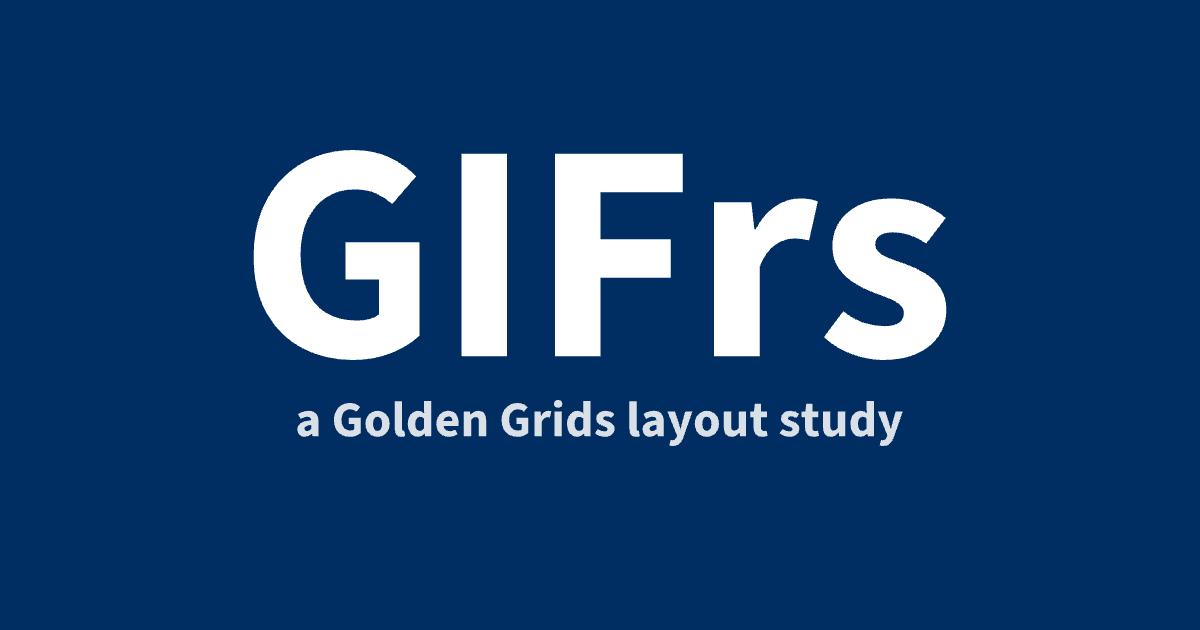
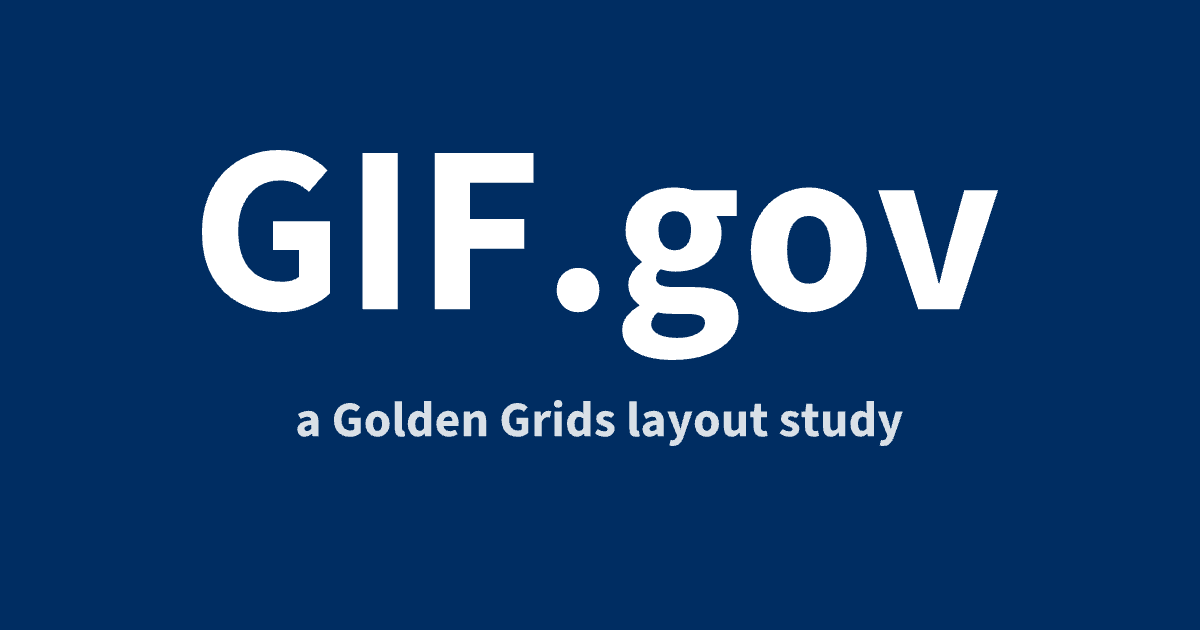
feat: name the study's site GIF.gov
At Greg's direction the parody name for IRS.gov is GIF.gov, not GIFrs: the one name that keeps the reference's own .gov. The notice, the wordmark (the G tile before it is gone), the share card and the brand rule say so; the notice still says this is not a government website and not affiliated with the IRS.

Changed region(s): [[0.1542, 0.2413, 0.8325, 0.573]]

diff --git a/src/styles.css b/src/styles.css
@@ -1,4 +1,4 @@
-/* Study 09 — three pages of IRS.gov, under the GIFrs brand. The register
+/* Study 09 — three pages of IRS.gov, under the GIF.gov brand. The register
    is the reference's, from measurement (captures/tokens.json): the U.S. Web
    Design System as IRS.gov applies it — Source Sans Pro (Source Sans 3 here)
    at 16px/24px in #1b1b1b, link blue #00599c, the dark blue #002d62 brand
@@ -67,7 +67,6 @@ a { color: var(--blue-ink); }
 .brand { background: var(--navy); color: #fff; }
 .brand__row { display: flex; align-items: center; justify-content: space-between; gap: 16px; min-height: 60px; }
 .wordmark { display: inline-flex; align-items: center; gap: 10px; min-height: 44px; font: 700 22px/1 var(--font); letter-spacing: -0.01em; color: #fff; text-decoration: none; }
-.wordmark__mark { display: inline-grid; place-items: center; width: 32px; height: 32px; border-radius: 6px; background: #fff; color: var(--navy); font-weight: 800; }
 .utility { margin: 0; padding: 0; list-style: none; display: none; gap: 0; font-size: 14px; }
 .utility li { padding: 0 12px; border-left: 1px solid rgba(255, 255, 255, 0.35); }
 .utility li:first-child { border-left: 0; }

diff --git a/src/lib/modules.tsx b/src/lib/modules.tsx
@@ -12,7 +12,7 @@ export function AppCard() {
     <section className="card card--app" aria-labelledby="app-title">
       <h2 id="app-title">{HERO.app.title}</h2>
       <p>{HERO.app.body}</p>
-      <div className="card__phone" aria-hidden="true"><span>GIFrs</span><span className="card__phone-btn">Sign in to your account</span><span className="card__phone-btn card__phone-btn--ghost">Continue as guest</span></div>
+      <div className="card__phone" aria-hidden="true"><span>GIF.gov</span><span className="card__phone-btn">Sign in to your account</span><span className="card__phone-btn card__phone-btn--ghost">Continue as guest</span></div>
       <button type="button" className="btn btn--ghost">{HERO.app.cta}</button>
       <p className="note">A fictional app for a layout study; the button does nothing.</p>
     </section>

diff --git a/src/lib/Page.tsx b/src/lib/Page.tsx
@@ -18,7 +18,7 @@ export function Page({ current, crumbs, side, sideTitle, children }: { current: 
       <Tools />
       <header className="brand">
         <div className="wrap brand__row">
-          <a className="wordmark" href="./index.html"><span className="wordmark__mark" aria-hidden="true">G</span>GIFrs</a>
+          <a className="wordmark" href="./index.html">GIF.gov</a>
           <ul className="utility">{UTILITY.map((u) => <li key={u}><span>{u}</span></li>)}</ul>
         </div>
         <nav className="nav" aria-label="Primary">

diff --git a/src/content.ts b/src/content.ts
@@ -4,7 +4,7 @@
  * hold each page's main text). The text is the IRS's own and is in the
  * public domain as a work of the United States government (17 U.S.C. §105);
  * it is used here shortened and rearranged, each page linked where it
- * appears. The shell is GIFrs's, a layout study's, and says so: this
+ * appears. The shell is GIF.gov's, a layout study's, and says so: this
  * is not a government website, nothing here signs anyone in, and no
  * payment can be made.
  */

diff --git a/CLAUDE.md b/CLAUDE.md
@@ -5,7 +5,7 @@ Guidance for agents working in a Golden Grids layout study.
 ## What this repo is
 
 Study 09: three pages of IRS.gov — home, Make a payment, Online account for
-individuals — rebuilt as stacked golden grids under the GIFrs brand.
+individuals — rebuilt as stacked golden grids under the GIF.gov brand.
 THREE pages (`index.html`, `payments.html`, `account.html`), Vite entries
 with plain links. `src/lib/Page.tsx` is the shell (banner, brand bar,
 navigation, breadcrumb, left navigation, footer); `src/bands/bands.tsx` the
@@ -152,7 +152,7 @@ README: the smallest line, and that no screen-reader user has tested it.
   phone numbers; check any claim against `captures/reference-*.txt`; link
   each page where its text appears and print the IRS's reviewed-on date.
 - NOT a government website, and it must never look like one: the banner at
-  the top says so on every page; the brand is GIFrs; no IRS seal, logo
+  the top says so on every page; the brand is GIF.gov; no IRS seal, logo
   or mark; no control signs in, pays, downloads or submits, and each such
   control says so where it stands.
 - Each band's first item is the hero and carries the reference's fuller
@@ -210,7 +210,7 @@ Two geometry rules, verified against source, that every band relies on:
 ## Brand
 
 - **The study's brand is a parody name**: `GIF` in capitals, then the tail of
-  the reference's name in lower case (GIFbnb, GIFspn, GIFflix, GIFrs, GIFx,
+  the reference's name in lower case (GIFbnb, GIFspn, GIFflix, GIF.gov, GIFx,
   GIFbase, GIFmutual, GIFn'now, GIFbell, GIFipedia, GIFify, GIFmilk Records).
   Do not use GIFcommit as
   a service's name; it is only the npm scope of the library.

diff --git a/docs/program/TEMPLATE-SPEC.md b/docs/program/TEMPLATE-SPEC.md
@@ -154,6 +154,10 @@ the code.
 - **Type fits its square** (`src/lib/fit.tsx`, `src/lib/boxes.tsx`): one
   fact per square, as large as the square allows; nothing is ever clipped;
   the fitted line's container is a definite box (`flex: 1 1 0`).
+- **More text, and variation from the subject:** body copy from ~200px of
+  square height, the fuller passage from ~320px, bullet lists from ~480px;
+  a large faint drawing of the square's subject behind the text (`imprint`)
+  as the variation lever.
 - **Depth in flow:** expansion in place, an item from a row opening its own
   band, section links, several pages when the reference has several. Every
   drill-down exits one way plus Escape: a labelled Close at the top right of
@@ -219,3 +223,4 @@ Every study ships these, and the template provides them:
   the study does, described and not argued) and "Notes for review" (plain
   observations, no verdict). A study does not say whether Golden Grids suited
   the page; see rule 3 in `PROGRAM.md`.
+- `captures/cells.cjs` — opens every expandable square at a phone width and fails on horizontal overflow or a head that does not stay locked under the notice.

diff --git a/README.md b/README.md
@@ -1,11 +1,11 @@
-# Layout study — three pages of IRS.gov, as GIFrs
+# Layout study — three pages of IRS.gov, as GIF.gov
 
 **Live:** [`https://gregoryedgerton.github.io/golden-grids-study-09-irs/`](https://gregoryedgerton.github.io/golden-grids-study-09-irs/)
 
 An unaffiliated layout study. It rebuilds the structure of three pages of
 IRS.gov — the [home page](https://www.irs.gov/), [Make a payment](https://www.irs.gov/payments)
 and [Online account for individuals](https://www.irs.gov/payments/online-account-for-individuals)
-— as stacked golden grids under the GIFrs brand. The text is the
+— as stacked golden grids under the GIF.gov brand. The text is the
 Internal Revenue Service's own, a work of the United States government in
 the public domain (17 U.S.C. §105), shortened and rearranged and linked to
 its page; the shell says on every page that this is not a government

diff --git a/docs/program/PROGRAM.md b/docs/program/PROGRAM.md
@@ -133,7 +133,7 @@ holds all of it; `TEMPLATE-SPEC.md` has the mechanics.
 The service a study invents to stand where the reference's name would be is
 named for the reference: `GIF` in capitals, then the tail of the reference's
 name in lower case. GIFbnb for Airbnb, GIFify for Spotify, GIFspn for ESPN, GIFflix for Netflix,
-GIFrs for the IRS, GIFx for X, GIFbase for Coinbase, GIFmutual for
+GIF.gov for IRS.gov (the one name that keeps the reference's own .gov, at Greg's choice), GIFx for X, GIFbase for Coinbase, GIFmutual for
 Northwestern Mutual, GIFn'now for Hot 'n Now, GIFbell for Taco Bell,
 GIFipedia for Wikipedia, and GIFmilk Records for the author's own label, No
 Milk Records. Where the reference has a premium tier or a named
